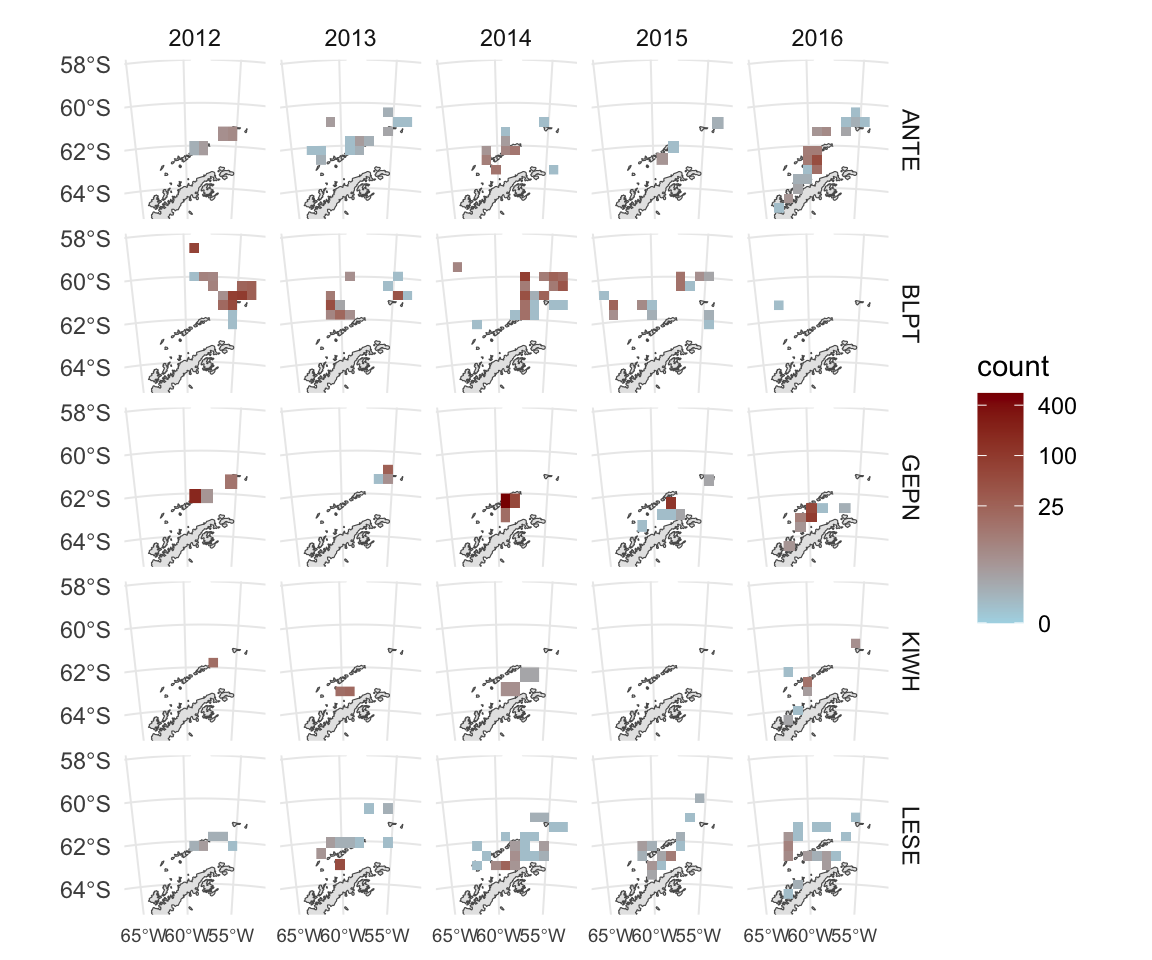
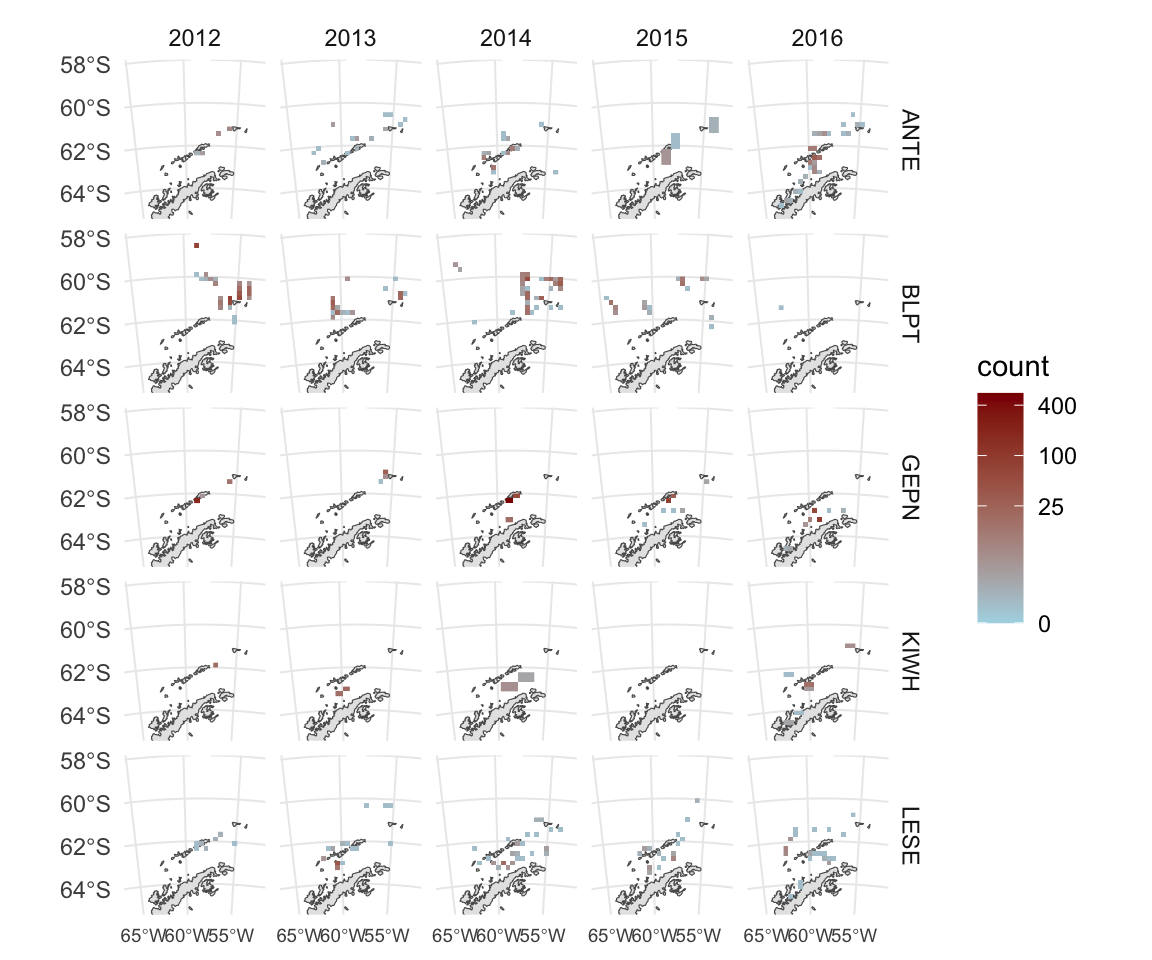
Fix predator maps

diff --git a/docs/01_predators.html b/docs/01_predators.html
@@ -178,7 +178,7 @@ code span.wa { color: #60a0b0; font-weight: bold; font-style: italic; } /* Warni
 </section>
 <section id="maps" class="level3 page-columns page-full">
 <h3 class="anchored" data-anchor-id="maps">Maps</h3>
-<p>Distribution maps of the five most abundant species in each survey year, aggregated to 50km bins.</p>
+<p>Distribution maps of the five most abundant species in each survey year, aggregated to 25km bins.</p>
 <div class="cell page-columns page-full" data-fig.dpi="600">
 <details>
 <summary>Code</summary>
@@ -186,29 +186,31 @@ code span.wa { color: #60a0b0; font-weight: bold; font-style: italic; } /* Warni
 <span id="cb4-2"><a href="#cb4-2" aria-hidden="true" tabindex="-1"></a>  <span class="fu">semi_join</span>(top_five, <span class="at">by =</span> <span class="st">"species"</span>) <span class="sc">%&gt;%</span> </span>
 <span id="cb4-3"><a href="#cb4-3" aria-hidden="true" tabindex="-1"></a>  <span class="fu">latlon_to_sf</span>(<span class="at">coords =</span> <span class="fu">c</span>(<span class="st">"lon_mean"</span>, <span class="st">"lat_mean"</span>))</span>
 <span id="cb4-4"><a href="#cb4-4" aria-hidden="true" tabindex="-1"></a></span>
-<span id="cb4-5"><a href="#cb4-5" aria-hidden="true" tabindex="-1"></a>topfive_stars <span class="ot">&lt;-</span> <span class="fu">rasterize_counts</span>(topfive_sf, <span class="at">res =</span> <span class="fl">5e4</span>)</span>
+<span id="cb4-5"><a href="#cb4-5" aria-hidden="true" tabindex="-1"></a>topfive_stars <span class="ot">&lt;-</span> <span class="fu">rasterize_counts</span>(topfive_sf, <span class="at">res =</span> <span class="fl">2.5e4</span>)</span>
 <span id="cb4-6"><a href="#cb4-6" aria-hidden="true" tabindex="-1"></a></span>
-<span id="cb4-7"><a href="#cb4-7" aria-hidden="true" tabindex="-1"></a>map_lim <span class="ot">&lt;-</span> sf<span class="sc">::</span><span class="fu">st_bbox</span>(topfive_sf) <span class="sc">%&gt;%</span> </span>
-<span id="cb4-8"><a href="#cb4-8" aria-hidden="true" tabindex="-1"></a>  <span class="fu">project_bbox</span>() <span class="sc">%&gt;%</span> </span>
-<span id="cb4-9"><a href="#cb4-9" aria-hidden="true" tabindex="-1"></a>  <span class="fu">expand_bbox</span>(<span class="at">factor =</span> <span class="fl">1.2</span>)</span>
-<span id="cb4-10"><a href="#cb4-10" aria-hidden="true" tabindex="-1"></a></span>
-<span id="cb4-11"><a href="#cb4-11" aria-hidden="true" tabindex="-1"></a><span class="fu">ant_basemap</span>(map_lim) <span class="sc">+</span></span>
-<span id="cb4-12"><a href="#cb4-12" aria-hidden="true" tabindex="-1"></a>  stars<span class="sc">::</span><span class="fu">geom_stars</span>(<span class="fu">aes</span>(<span class="at">fill =</span> count), <span class="at">data =</span> topfive_stars) <span class="sc">+</span></span>
-<span id="cb4-13"><a href="#cb4-13" aria-hidden="true" tabindex="-1"></a>  <span class="fu">scale_fill_gradient</span>(<span class="at">low =</span> <span class="st">"lightblue"</span>, <span class="at">high =</span> <span class="st">"darkred"</span>,</span>
-<span id="cb4-14"><a href="#cb4-14" aria-hidden="true" tabindex="-1"></a>                      <span class="at">trans =</span> scales<span class="sc">::</span><span class="fu">pseudo_log_trans</span>(),</span>
-<span id="cb4-15"><a href="#cb4-15" aria-hidden="true" tabindex="-1"></a>                      <span class="at">breaks =</span> <span class="fu">c</span>(<span class="dv">0</span>, <span class="dv">25</span>, <span class="dv">100</span>, <span class="dv">400</span>, <span class="dv">1000</span>, <span class="dv">4000</span>),</span>
-<span id="cb4-16"><a href="#cb4-16" aria-hidden="true" tabindex="-1"></a>                      <span class="at">na.value =</span> <span class="cn">NA</span>) <span class="sc">+</span></span>
-<span id="cb4-17"><a href="#cb4-17" aria-hidden="true" tabindex="-1"></a>  <span class="fu">scale_x_continuous</span>(<span class="at">breaks =</span> <span class="fu">c</span>(<span class="sc">-</span><span class="dv">65</span>, <span class="sc">-</span><span class="dv">60</span>, <span class="sc">-</span><span class="dv">55</span>)) <span class="sc">+</span></span>
-<span id="cb4-18"><a href="#cb4-18" aria-hidden="true" tabindex="-1"></a>  <span class="fu">scale_y_continuous</span>(<span class="at">breaks =</span> <span class="fu">c</span>(<span class="sc">-</span><span class="dv">64</span>, <span class="sc">-</span><span class="dv">62</span>, <span class="sc">-</span><span class="dv">60</span>, <span class="sc">-</span><span class="dv">58</span>)) <span class="sc">+</span></span>
-<span id="cb4-19"><a href="#cb4-19" aria-hidden="true" tabindex="-1"></a>  <span class="fu">facet_grid</span>(species <span class="sc">~</span> year) <span class="sc">+</span></span>
-<span id="cb4-20"><a href="#cb4-20" aria-hidden="true" tabindex="-1"></a>  <span class="fu">expand_limits</span>(<span class="at">fill =</span> <span class="dv">0</span>) <span class="sc">+</span></span>
-<span id="cb4-21"><a href="#cb4-21" aria-hidden="true" tabindex="-1"></a>  <span class="fu">theme</span>(<span class="at">axis.text.x =</span> <span class="fu">element_text</span>(<span class="at">size =</span> <span class="dv">7</span>))</span></code><button title="Copy to Clipboard" class="code-copy-button"><i class="bi"></i></button></pre></div>
+<span id="cb4-7"><a href="#cb4-7" aria-hidden="true" tabindex="-1"></a>map_lim <span class="ot">&lt;-</span> sf<span class="sc">::</span><span class="fu">st_bbox</span>(<span class="fu">c</span>(<span class="at">xmin =</span> <span class="sc">-</span><span class="dv">65</span>, <span class="at">xmax =</span> <span class="sc">-</span><span class="dv">55</span>, <span class="at">ymin =</span> <span class="sc">-</span><span class="dv">66</span>, <span class="at">ymax =</span> <span class="sc">-</span><span class="dv">60</span>),</span>
+<span id="cb4-8"><a href="#cb4-8" aria-hidden="true" tabindex="-1"></a>                       <span class="at">crs =</span> <span class="st">"EPSG:4326"</span>) <span class="sc">%&gt;%</span> </span>
+<span id="cb4-9"><a href="#cb4-9" aria-hidden="true" tabindex="-1"></a>  <span class="fu">project_bbox</span>() <span class="sc">%&gt;%</span> </span>
+<span id="cb4-10"><a href="#cb4-10" aria-hidden="true" tabindex="-1"></a>  <span class="fu">expand_bbox</span>(<span class="at">factor =</span> <span class="fl">1.1</span>)</span>
+<span id="cb4-11"><a href="#cb4-11" aria-hidden="true" tabindex="-1"></a></span>
+<span id="cb4-12"><a href="#cb4-12" aria-hidden="true" tabindex="-1"></a><span class="fu">ant_basemap</span>(map_lim) <span class="sc">+</span></span>
+<span id="cb4-13"><a href="#cb4-13" aria-hidden="true" tabindex="-1"></a>  stars<span class="sc">::</span><span class="fu">geom_stars</span>(<span class="fu">aes</span>(<span class="at">fill =</span> count), <span class="at">data =</span> topfive_stars) <span class="sc">+</span></span>
+<span id="cb4-14"><a href="#cb4-14" aria-hidden="true" tabindex="-1"></a>  <span class="fu">scale_fill_gradient</span>(<span class="at">low =</span> <span class="st">"lightblue"</span>, <span class="at">high =</span> <span class="st">"darkred"</span>,</span>
+<span id="cb4-15"><a href="#cb4-15" aria-hidden="true" tabindex="-1"></a>                      <span class="at">trans =</span> scales<span class="sc">::</span><span class="fu">pseudo_log_trans</span>(),</span>
+<span id="cb4-16"><a href="#cb4-16" aria-hidden="true" tabindex="-1"></a>                      <span class="at">breaks =</span> <span class="fu">c</span>(<span class="dv">0</span>, <span class="dv">25</span>, <span class="dv">100</span>, <span class="dv">400</span>, <span class="dv">1000</span>, <span class="dv">4000</span>),</span>
+<span id="cb4-17"><a href="#cb4-17" aria-hidden="true" tabindex="-1"></a>                      <span class="at">na.value =</span> <span class="cn">NA</span>) <span class="sc">+</span></span>
+<span id="cb4-18"><a href="#cb4-18" aria-hidden="true" tabindex="-1"></a>  <span class="fu">scale_x_continuous</span>(<span class="at">breaks =</span> <span class="fu">c</span>(<span class="sc">-</span><span class="dv">65</span>, <span class="sc">-</span><span class="dv">60</span>, <span class="sc">-</span><span class="dv">55</span>)) <span class="sc">+</span></span>
+<span id="cb4-19"><a href="#cb4-19" aria-hidden="true" tabindex="-1"></a>  <span class="fu">scale_y_continuous</span>(<span class="at">breaks =</span> <span class="fu">c</span>(<span class="sc">-</span><span class="dv">66</span>, <span class="sc">-</span><span class="dv">64</span>, <span class="sc">-</span><span class="dv">62</span>, <span class="sc">-</span><span class="dv">60</span>)) <span class="sc">+</span></span>
+<span id="cb4-20"><a href="#cb4-20" aria-hidden="true" tabindex="-1"></a>  <span class="fu">coord_ant</span>(map_lim) <span class="sc">+</span></span>
+<span id="cb4-21"><a href="#cb4-21" aria-hidden="true" tabindex="-1"></a>  <span class="fu">facet_grid</span>(species <span class="sc">~</span> year) <span class="sc">+</span></span>
+<span id="cb4-22"><a href="#cb4-22" aria-hidden="true" tabindex="-1"></a>  <span class="fu">expand_limits</span>(<span class="at">fill =</span> <span class="dv">0</span>) <span class="sc">+</span></span>
+<span id="cb4-23"><a href="#cb4-23" aria-hidden="true" tabindex="-1"></a>  <span class="fu">theme</span>(<span class="at">axis.text.x =</span> <span class="fu">element_text</span>(<span class="at">size =</span> <span class="dv">7</span>))</span></code><button title="Copy to Clipboard" class="code-copy-button"><i class="bi"></i></button></pre></div>
 </details>
 <div class="cell-output-display column-screen">
 <p><img src="01_predators_files/figure-html/topfive_map-1.png" class="img-fluid" style="width:100.0%"></p>
 </div>
 </div>
-<p>Distribution maps of five species of interest in each survey year, also aggregated to 50km bins.</p>
+<p>Distribution maps of five species of interest in each survey year, also aggregated to 25km bins.</p>
 <div class="cell page-columns page-full" data-fig.dpi="600">
 <details>
 <summary>Code</summary>
@@ -218,7 +220,7 @@ code span.wa { color: #60a0b0; font-weight: bold; font-style: italic; } /* Warni
 <span id="cb5-4"><a href="#cb5-4" aria-hidden="true" tabindex="-1"></a>  <span class="fu">filter</span>(species <span class="sc">%in%</span> soi) <span class="sc">%&gt;%</span> </span>
 <span id="cb5-5"><a href="#cb5-5" aria-hidden="true" tabindex="-1"></a>  <span class="fu">latlon_to_sf</span>(<span class="at">coords =</span> <span class="fu">c</span>(<span class="st">"lon_mean"</span>, <span class="st">"lat_mean"</span>))</span>
 <span id="cb5-6"><a href="#cb5-6" aria-hidden="true" tabindex="-1"></a></span>
-<span id="cb5-7"><a href="#cb5-7" aria-hidden="true" tabindex="-1"></a>soi_stars <span class="ot">&lt;-</span> <span class="fu">rasterize_counts</span>(soi_sf, <span class="at">res =</span> <span class="fl">5e4</span>)</span>
+<span id="cb5-7"><a href="#cb5-7" aria-hidden="true" tabindex="-1"></a>soi_stars <span class="ot">&lt;-</span> <span class="fu">rasterize_counts</span>(soi_sf, <span class="at">res =</span> <span class="fl">2.5e4</span>)</span>
 <span id="cb5-8"><a href="#cb5-8" aria-hidden="true" tabindex="-1"></a></span>
 <span id="cb5-9"><a href="#cb5-9" aria-hidden="true" tabindex="-1"></a>map_lim <span class="ot">&lt;-</span> sf<span class="sc">::</span><span class="fu">st_bbox</span>(soi_sf) <span class="sc">%&gt;%</span> </span>
 <span id="cb5-10"><a href="#cb5-10" aria-hidden="true" tabindex="-1"></a>  <span class="fu">project_bbox</span>() <span class="sc">%&gt;%</span> </span>
